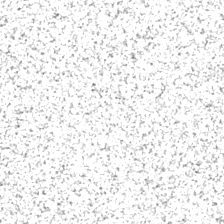
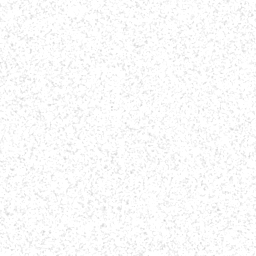
Dial the paper grain way down (it was TV static)
Regenerate the grain much subtler: dark-only flecks (no salt-and-pepper
light specks), ~3% typical alpha instead of ~11%, finer particles. Reduce
the display tile 220px -> 170px on both surfaces for a finer tooth.

Changed region(s): [[0.0, 0.0, 1.0, 1.0]]

diff --git a/_site/blog/css/style.css b/_site/blog/css/style.css
@@ -1,6 +1,6 @@
 /* ===== Noise & blob config ===== */
 :root {
-  --noise-size: 220px;
+  --noise-size: 170px;
   --noise-opacity: 0.3;
 }
 

diff --git a/_site/index.html b/_site/index.html
@@ -15,7 +15,7 @@
    landing page and blog read as one system. This page is standalone (it does
    not import Flexoki), so the few colours it needs are defined locally. */
 :root {
-  --noise-size: 220px;
+  --noise-size: 170px;
   --noise-opacity: .4;
 
   --fg:         #100F0F;   /* ink — matches the blog's light-mode --fg */

diff --git a/css/style.css b/css/style.css
@@ -1,6 +1,6 @@
 /* ===== Noise & blob config ===== */
 :root {
-  --noise-size: 220px;
+  --noise-size: 170px;
   --noise-opacity: 0.3;
 }
 

diff --git a/landing-page/index.html b/landing-page/index.html
@@ -15,7 +15,7 @@
    landing page and blog read as one system. This page is standalone (it does
    not import Flexoki), so the few colours it needs are defined locally. */
 :root {
-  --noise-size: 220px;
+  --noise-size: 170px;
   --noise-opacity: .4;
 
   --fg:         #100F0F;   /* ink — matches the blog's light-mode --fg */